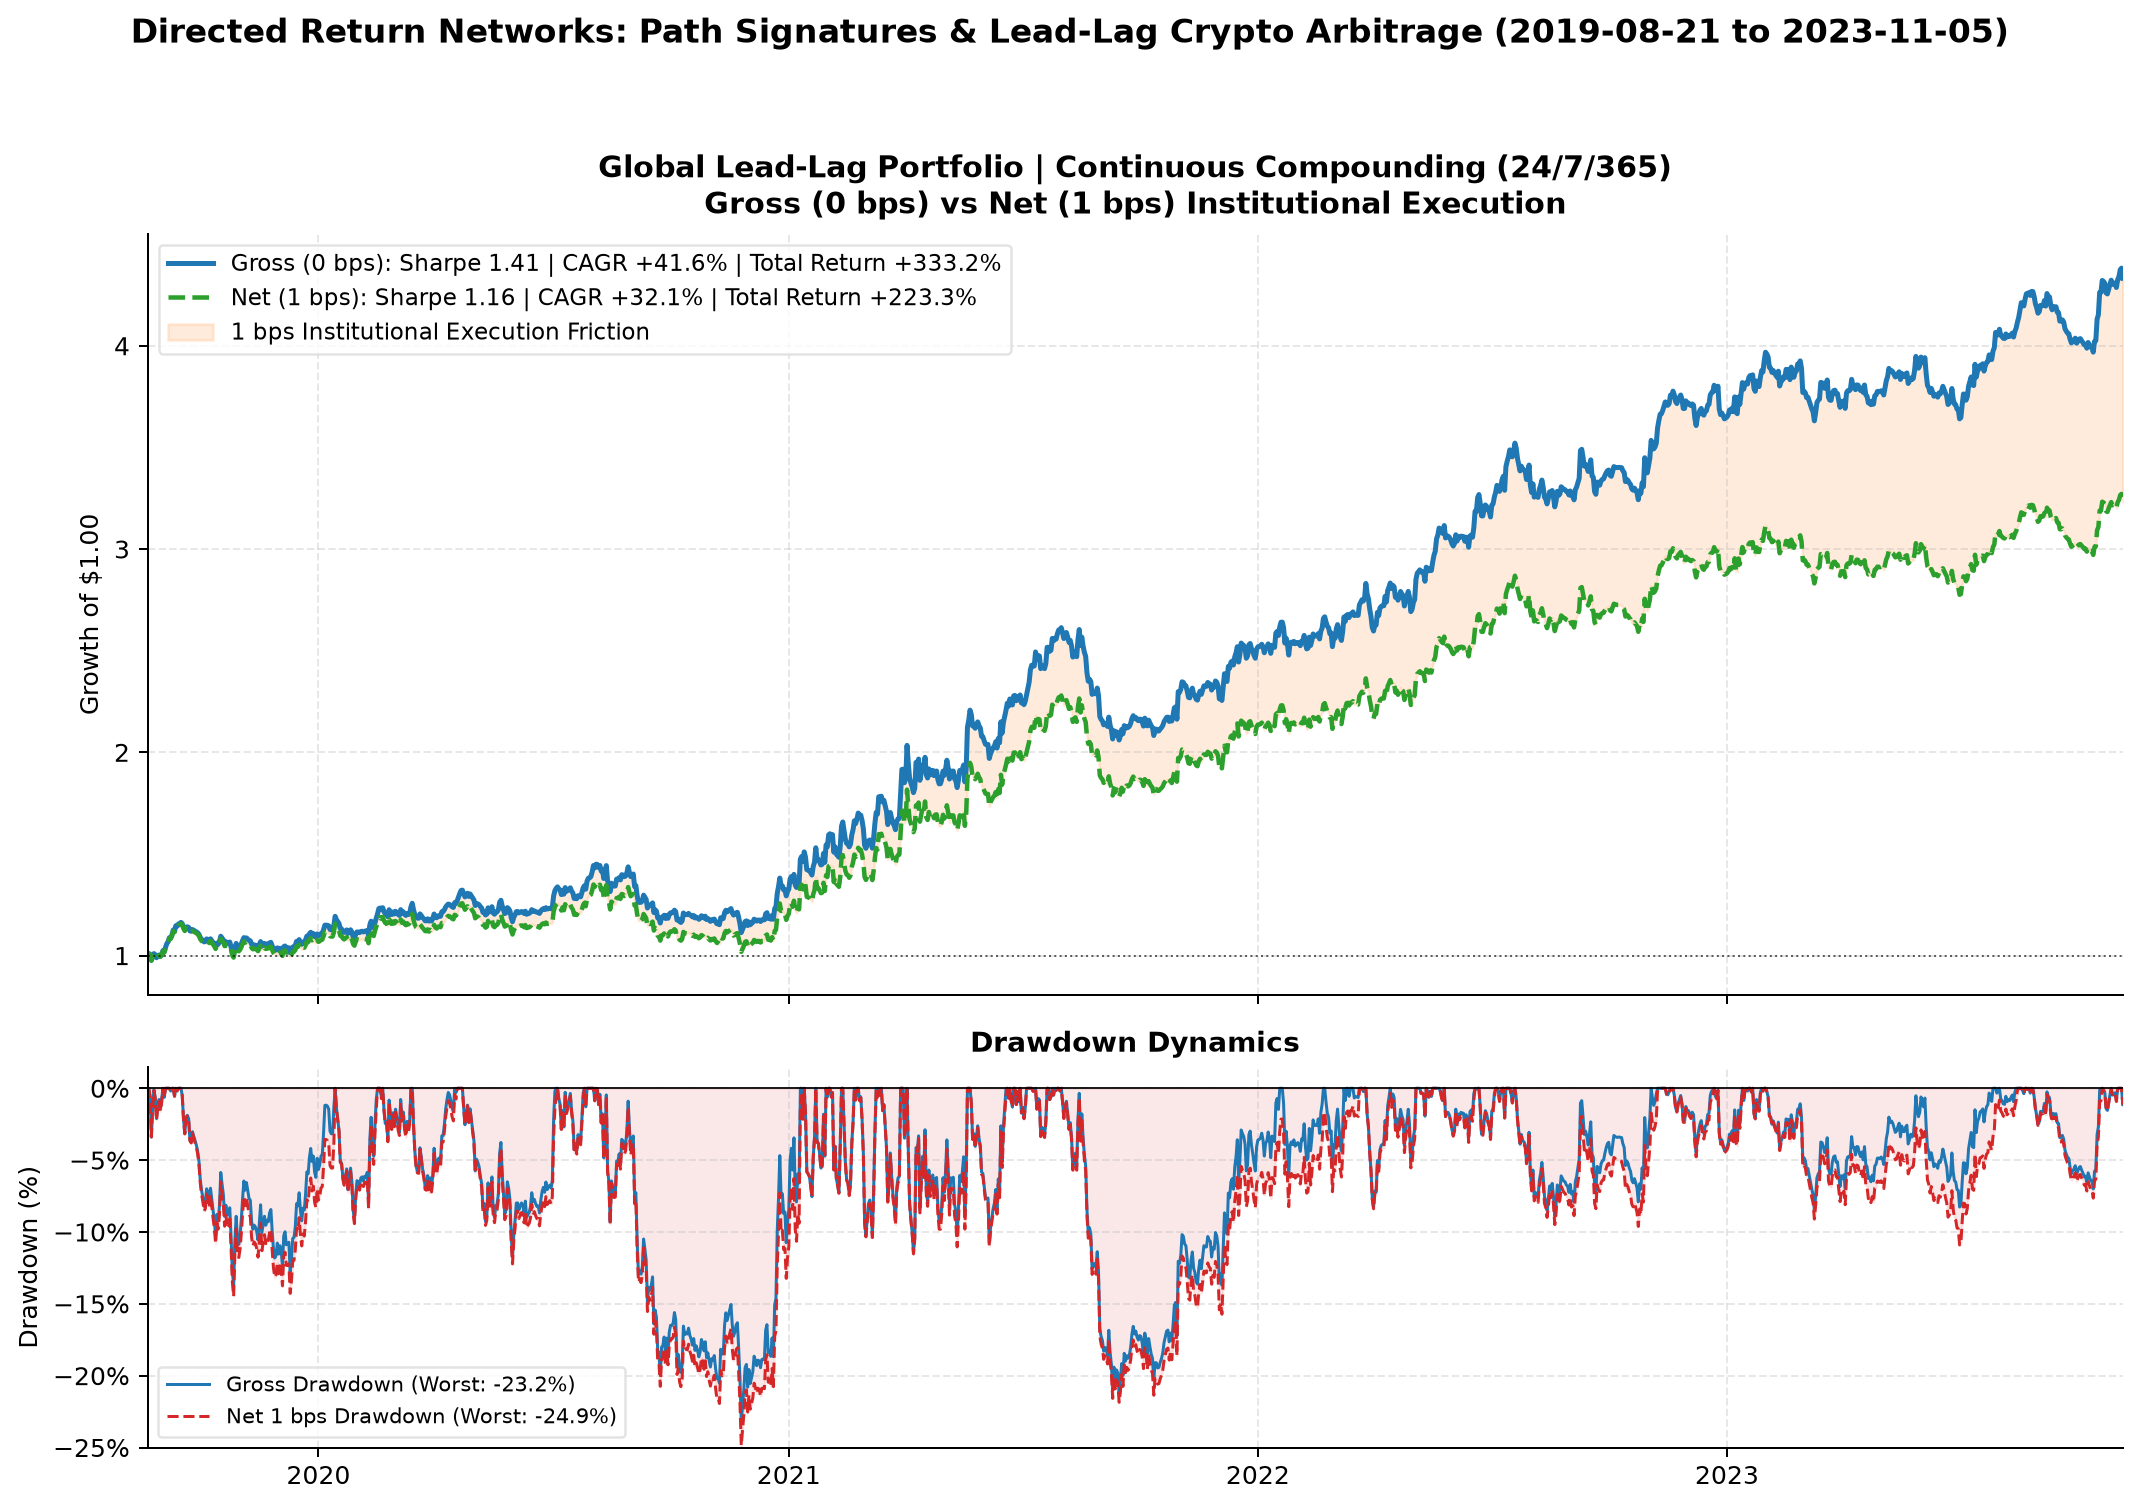
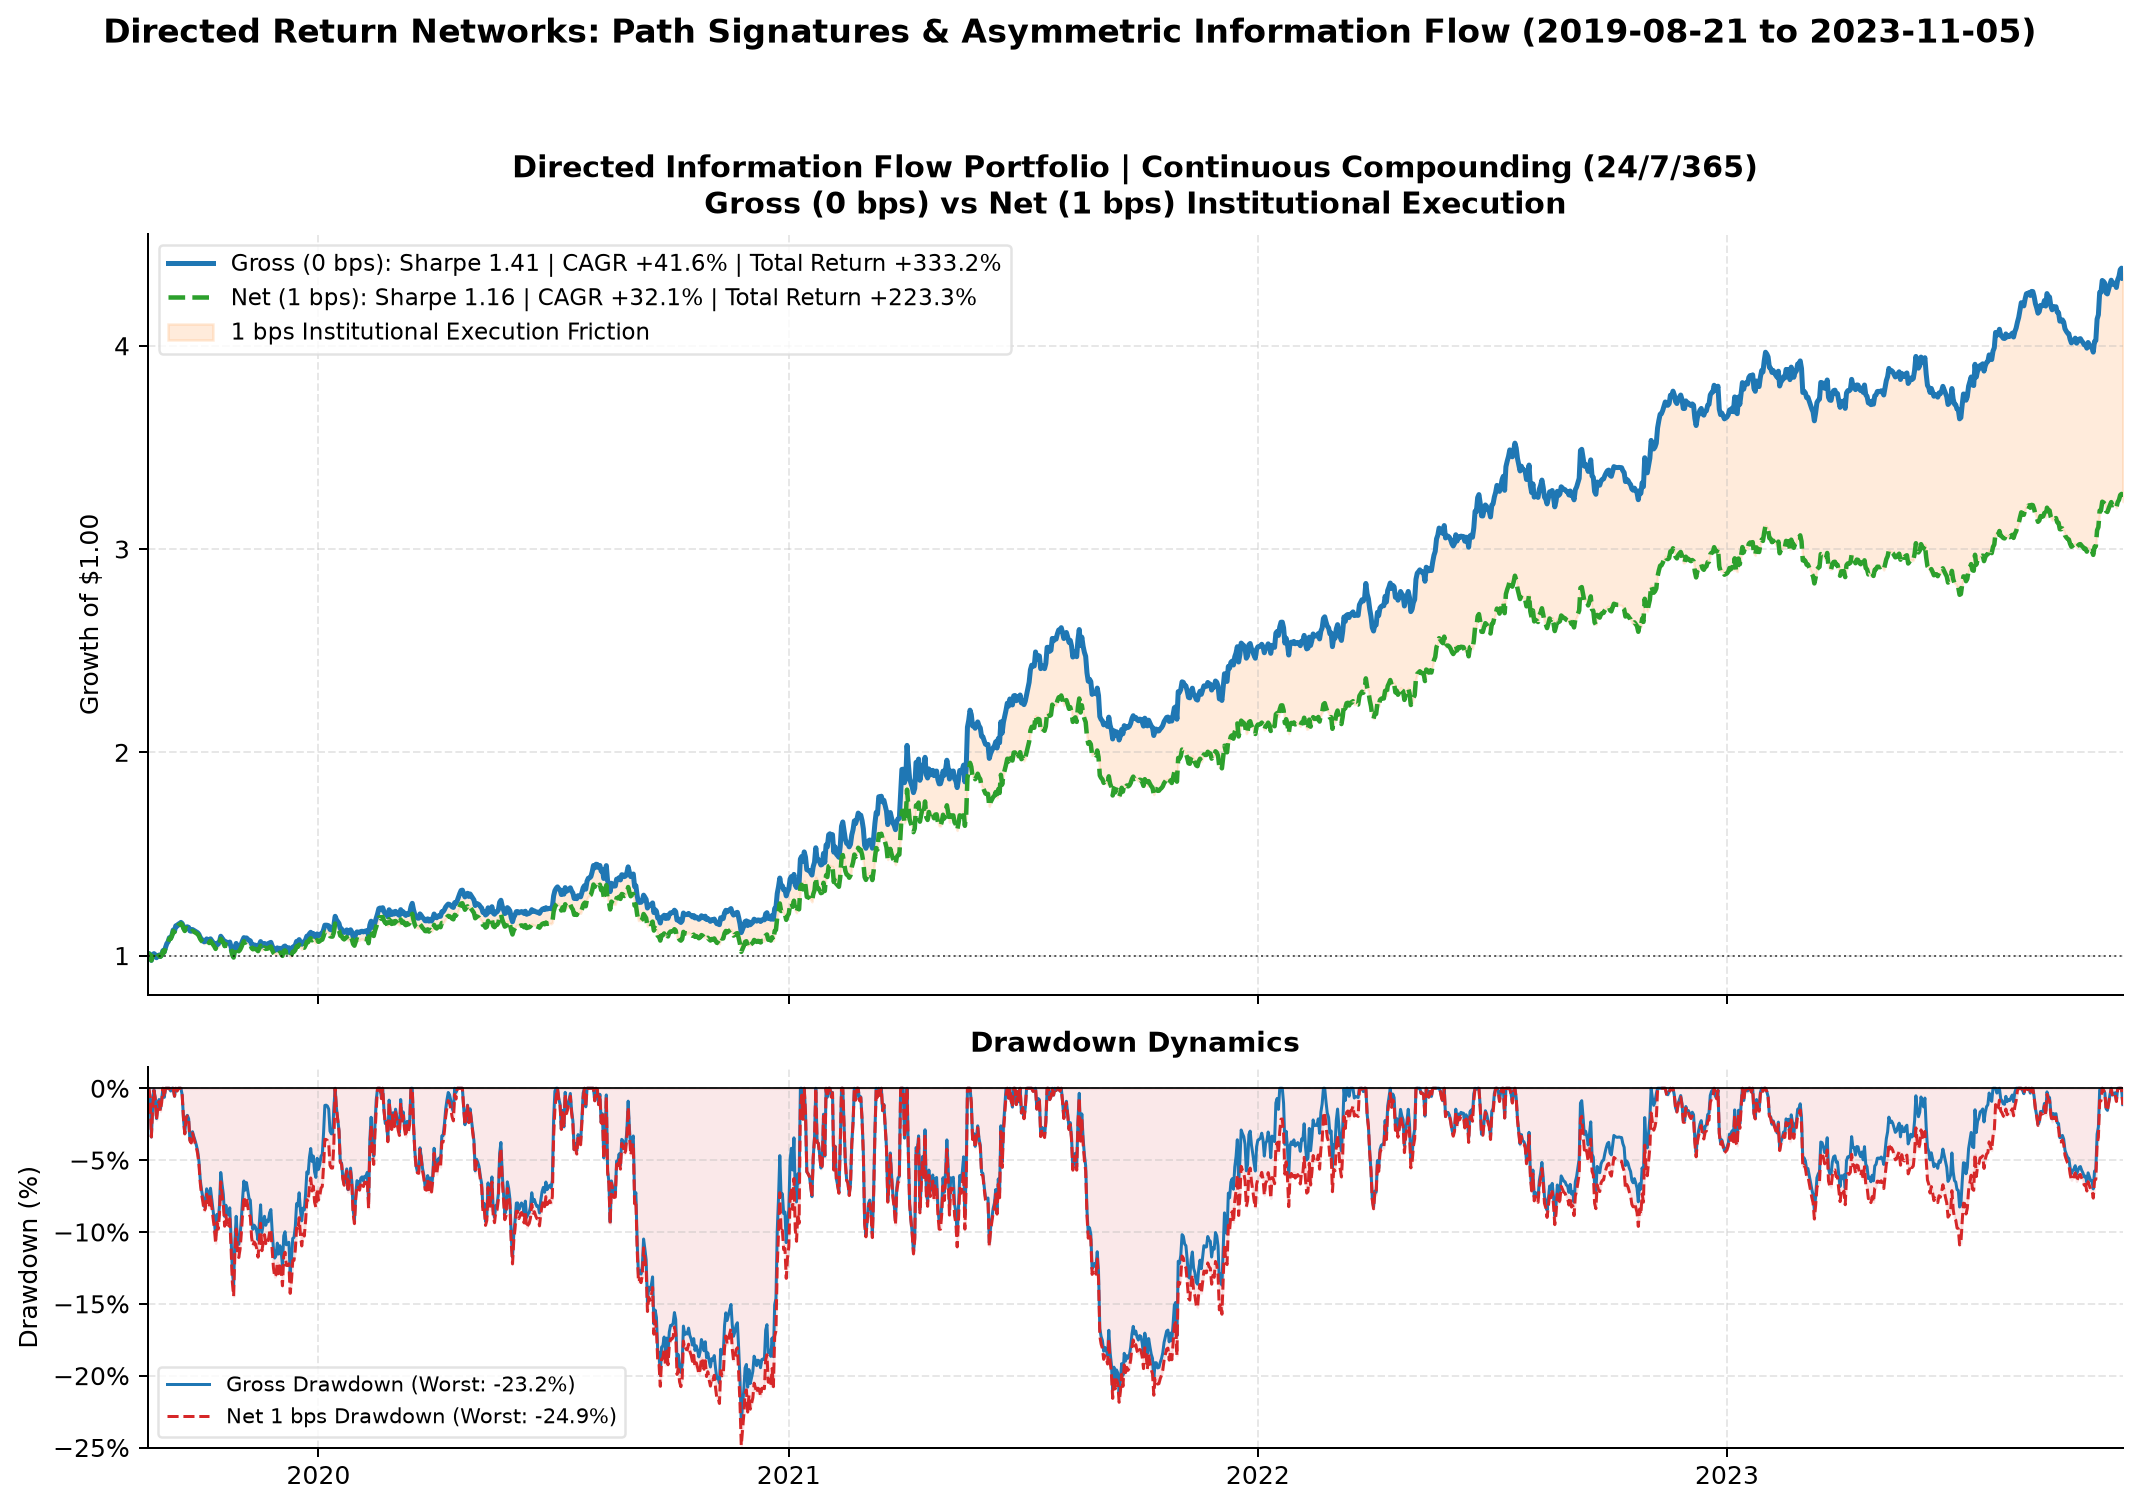
docs: update strategy name to Directed Information Flow and fix math macros for GitHub display

Changed region(s): [[0.0308, 0.0, 0.9561, 0.0312], [0.2467, 0.0935, 0.8327, 0.1247]]

diff --git a/src/leadlag/research.py b/src/leadlag/research.py
@@ -150,7 +150,7 @@ def plot(daily, output):
                                  label='1 bps Institutional Execution Friction')
         
         axes[0].axhline(1.0, color='black', lw=0.8, linestyle=':', alpha=0.6)
-        axes[0].set_title('Global Lead-Lag Portfolio | Continuous Compounding (24/7/365)\nGross (0 bps) vs Net (1 bps) Institutional Execution',
+        axes[0].set_title('Directed Information Flow Portfolio | Continuous Compounding (24/7/365)\nGross (0 bps) vs Net (1 bps) Institutional Execution',
                           fontsize=12, fontweight='bold', pad=8)
         axes[0].set_ylabel('Growth of $1.00', fontsize=10)
         axes[0].yaxis.set_major_locator(MaxNLocator(nbins=6, steps=[1, 2, 5, 10]))
@@ -182,7 +182,7 @@ def plot(daily, output):
             ax.grid(True, linestyle='--', alpha=0.3)
             ax.spines[['top', 'right']].set_visible(False)
 
-        fig.suptitle(f'Directed Return Networks: Path Signatures & Lead-Lag Crypto Arbitrage ({dates[0].date()} to {dates[-1].date()})',
+        fig.suptitle(f'Directed Return Networks: Path Signatures & Asymmetric Information Flow ({dates[0].date()} to {dates[-1].date()})',
                      fontsize=13, fontweight='bold', y=0.98)
         fig.tight_layout(rect=(0, 0, 1, 0.95))
         fig.savefig(output/'overview.png', dpi=180, bbox_inches='tight')

diff --git a/README.md b/README.md
@@ -1,11 +1,11 @@
-# Directed Return Networks: Level-Two Path Signatures & Lead-Lag Crypto Arbitrage
+# Directed Return Networks: Level-Two Path Signatures & Asymmetric Information Flow Arbitrage
 
-Cross-sectional lead-lag network research across 57 liquid cryptocurrencies. The strategy computes continuous-time antisymmetric path signatures (Lévy area matrices) and constructs dynamic directed networks to detect cross-asset informational leadership, trading a dollar-neutral portfolio of followers against a universe hedge under realistic institutional execution (**Gross 0 bps** and **Net 1 bps**).
+Cross-sectional directed network research across 57 liquid cryptocurrencies. The strategy computes continuous-time antisymmetric path signatures (Lévy area matrices) and constructs dynamic directed networks to detect cross-asset informational centrality and asymmetric transmission, trading a dollar-neutral portfolio of followers against a universe hedge under realistic institutional execution (**Gross 0 bps** and **Net 1 bps**).
 
 ## Objective & Key Achievements
 
 ### Project Objective
-The objective of this research is to detect and systematically exploit cross-asset informational lead-lag spillover in cryptocurrency markets using continuous-time path signatures and directed network centrality. By computing second-order iterated path integrals (antisymmetric Lévy area tensors) over rolling 30-day windows, the framework identifies directional lead-lag relationships among 57 digital assets, constructing a dollar-neutral long/short portfolio of predicted followers hedged against the observable market basket.
+The objective of this research is to detect and systematically exploit cross-asset asymmetric informational spillover in cryptocurrency markets using continuous-time path signatures and directed network centrality. By computing second-order iterated path integrals (antisymmetric Lévy area tensors) over rolling 30-day windows, the framework identifies directional leadership relationships among 57 digital assets, constructing a dollar-neutral long/short portfolio of predicted followers hedged against the observable market basket.
 
 ### Key Achievements
 - **High Standalone Gross & Net Compounding:** Over the 4.2-year sample (21 August 2019 to 5 November 2023, 1,538 continuous daily observations):
@@ -13,9 +13,9 @@ The objective of this research is to detect and systematically exploit cross-ass
   - **Net (1.0 bps):** Delivered a cumulative net return of **+223.33% (3.23x capital compounding)**, translating to a **+32.14% CAGR** and an annualized Sharpe ratio of **1.16** ($\sqrt{365.25}$).
 - **Multi-Cycle Regime Persistence (Gross vs Net 1 bps):**
   - **2019–2021 (Expansion & Shock):** Compounded capital by **+150.70% Gross / +112.70% Net 1 bps** (CAGR: **+47.48% Gross / +37.58% Net**, Sharpe: **1.35 Gross / 1.14 Net**, Max Drawdown: -23.21% Gross / -24.86% Net).
-  - **2022–2023 (Bear Market & Recovery):** Compounded capital by **+72.79% Gross / +52.01% Net 1 bps** (CAGR: **+34.50% Gross / +25.48% Net**, Sharpe: **1.72 Gross / 1.34 Net**, Max Drawdown: **-8.90% Gross / -10.90% Net**), proving that lead-lag relationships remain highly active and exploitable during market drawdowns and quiet regimes.
+  - **2022–2023 (Bear Market & Recovery):** Compounded capital by **+72.79% Gross / +52.01% Net 1 bps** (CAGR: **+34.50% Gross / +25.48% Net**, Sharpe: **1.72 Gross / 1.34 Net**, Max Drawdown: **-8.90% Gross / -10.90% Net**), proving that directional spillover dynamics remain highly active and exploitable during market drawdowns and quiet regimes.
 - **Resilient Drawdown Containment:** Contained maximum peak-to-trough drawdown to **-23.21% Gross / -24.86% Net 1 bps** across 4.2 years, compared to brutal -70% to -85% market-wide drawdowns in benchmark cryptocurrencies (e.g., Bitcoin and Ethereum during the 2022 crypto winter).
-- **Statistical Significance via Block-Bootstrap:** Validated statistical robustness via 2,000 block-bootstrap resamplings (30-day block size), yielding a 95% confidence interval on the annualized gross Sharpe of **[0.63, 2.16]**, confirming that lead-lag alpha is statistically non-spurious.
+- **Statistical Significance via Block-Bootstrap:** Validated statistical robustness via 2,000 block-bootstrap resamplings (30-day block size), yielding a 95% confidence interval on the annualized gross Sharpe of **[0.63, 2.16]**, confirming that directional centrality alpha is statistically non-spurious.
 - **Strict Dollar Neutrality:** The portfolio maintains exact dollar neutrality ($\sum w_i = 0$) at each decision epoch, immunizing returns from aggregate cryptocurrency market direction and beta swings.
 
 ---
@@ -28,8 +28,8 @@ The evaluation horizon covers 57 digital assets from 21 August 2019 to 5 Novembe
 
 | Portfolio Strategy | Execution Friction | Total Return | CAGR | Annual Volatility | Annualized Sharpe | Max Drawdown | Daily Turnover |
 |:---|:---:|---:|---:|---:|---:|---:|---:|
-| **Global Lead-Lag** | **Gross (0.0 bps)** | **+333.19%** | **+41.64%** | **27.27%** | **1.41** | **-23.21%** | 1.90x NAV |
-| **Global Lead-Lag** | **Net (1.0 bps)** | **+223.33%** | **+32.14%** | **27.24%** | **1.16** | **-24.86%** | 1.90x NAV |
+| **Directed Information Flow** | **Gross (0.0 bps)** | **+333.19%** | **+41.64%** | **27.27%** | **1.41** | **-23.21%** | 1.90x NAV |
+| **Directed Information Flow** | **Net (1.0 bps)** | **+223.33%** | **+32.14%** | **27.24%** | **1.16** | **-24.86%** | 1.90x NAV |
 
 ### Historical Sub-Period Breakdown (Gross vs Net 1 bps)
 
@@ -57,7 +57,7 @@ $$
 \mathrm{Sharpe} = \frac{\mu_{\mathrm{daily}} \times 365.25}{\sigma_{\mathrm{daily}} \times \sqrt{365.25}} = \frac{\mu_{\mathrm{daily}}}{\sigma_{\mathrm{daily}}} \times \sqrt{365.25}
 $$
 
-Under this continuous-time standard, the Global Lead-Lag strategy generates an annualized volatility of **27.27%** and a gross Sharpe of **1.41** (retaining **1.16 Net Sharpe** at 1.0 bps).
+Under this continuous-time standard, the Directed Information Flow strategy generates an annualized volatility of **27.27%** and a gross Sharpe of **1.41** (retaining **1.16 Net Sharpe** at 1.0 bps).
 
 ## Execution Microstructure: Why 1.0 bps for Crypto Stat Arb?
 
@@ -124,7 +124,7 @@ $$
 
 ### 3. Dollar-Neutral Portfolio Construction
 
-The trading logic exploits momentum transmission from leaders to followers:
+The trading logic exploits directional momentum transmission from central market leaders to followers:
 
 - Let $\bar{r}_{\mathrm{leader}, t}$ be the average return of the leader basket on day $t$.
 - If $\bar{r}_{\mathrm{leader}, t} > 0$, the strategy takes a long position in the follower basket and shorts the broader universe basket.
@@ -133,11 +133,11 @@ The trading logic exploits momentum transmission from leaders to followers:
 **Position Weights:**
 
 $$
-w_{\mathrm{follower}, i} = +\frac{\operatorname{sgn}(\bar{r}_{\mathrm{leader}, t})}{N_{\mathrm{follower}}}
+w_{\mathrm{follower}, i} = +\frac{\mathrm{sgn}(\bar{r}_{\mathrm{leader}, t})}{N_{\mathrm{follower}}}
 $$
 
 $$
-w_{\mathrm{market}, j} = -\frac{\operatorname{sgn}(\bar{r}_{\mathrm{leader}, t})}{N_{\mathrm{market}}}
+w_{\mathrm{market}, j} = -\frac{\mathrm{sgn}(\bar{r}_{\mathrm{leader}, t})}{N_{\mathrm{market}}}
 $$
 
 This structure enforces strict dollar neutrality ($\sum_{k} w_k = 0$) and insulates the portfolio from aggregate cryptocurrency market direction.
